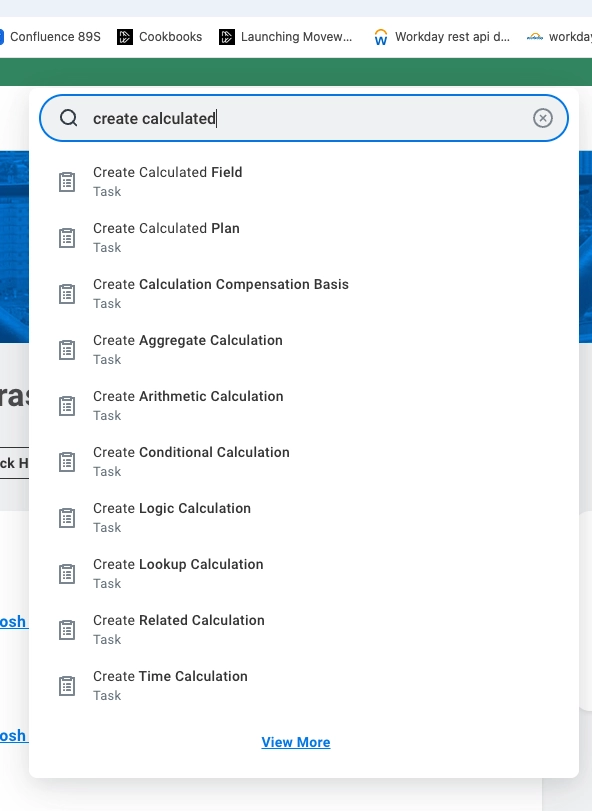
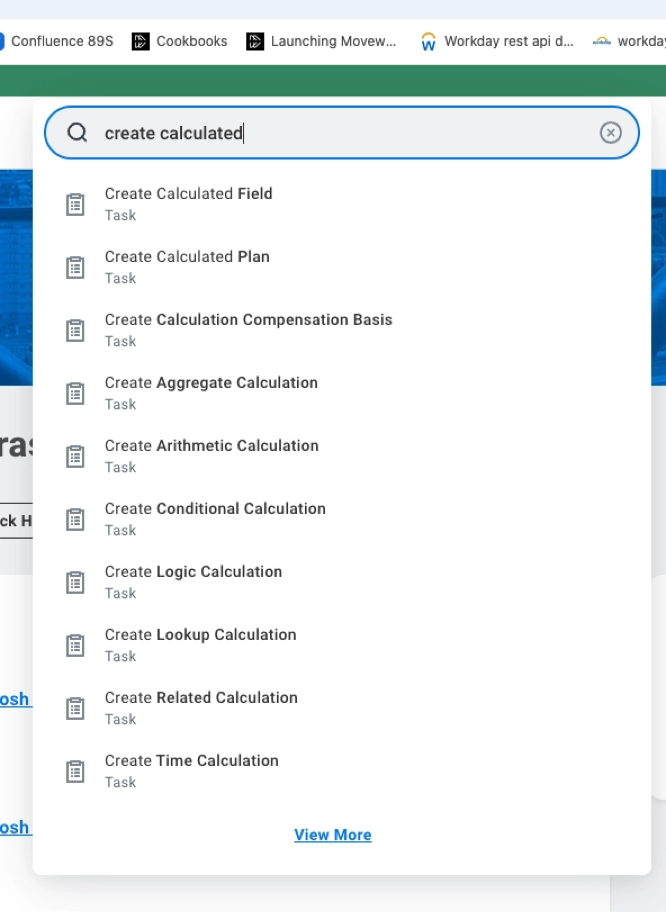
fix image sizing

diff --git a/plugins/workday-view-scheduled-and-past-pto/README.md b/plugins/workday-view-scheduled-and-past-pto/README.md
@@ -69,7 +69,7 @@ Below mandatory attributes are needed from this user ingestion.
 
 These attributes are utilized in the input mapping as shown below. Depending on your ingestion configuration, you might need to change these to point to the user's workday_id and Workday org_id.
 
-<img src="image.png" alt="workday_user_identity_attributes" width="600" />
+![workday_user_identity_attributes](image.png)
 
 ## **4. Workday Custom field creation cf_manager**
 
@@ -79,8 +79,7 @@ This is a custom field created under time off entry business object which is use
 
 2. In search, type: **Create Calculated Field**
 
-   <img src="image-1.png" alt="screenshot" width="600" />
-   <br></br>
+   ![screenshot](image-1.png)
 
 3. Enter the below fields as shown in screenshot.
     - **Business Object** → Time Off Entry
